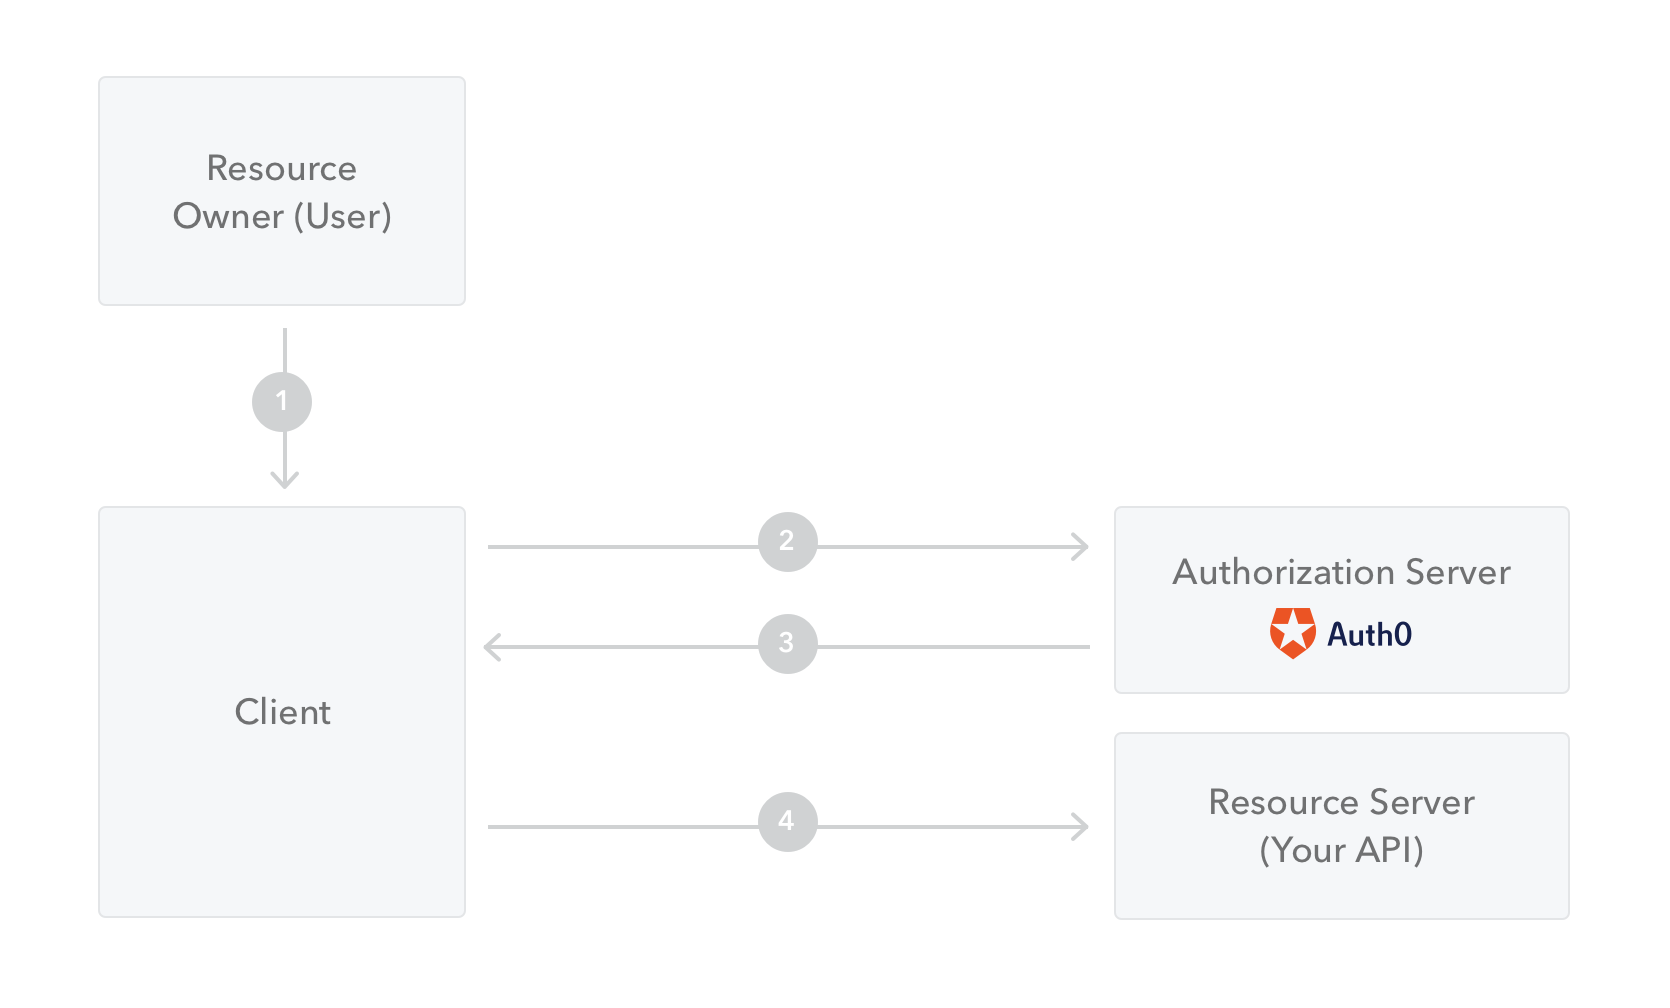
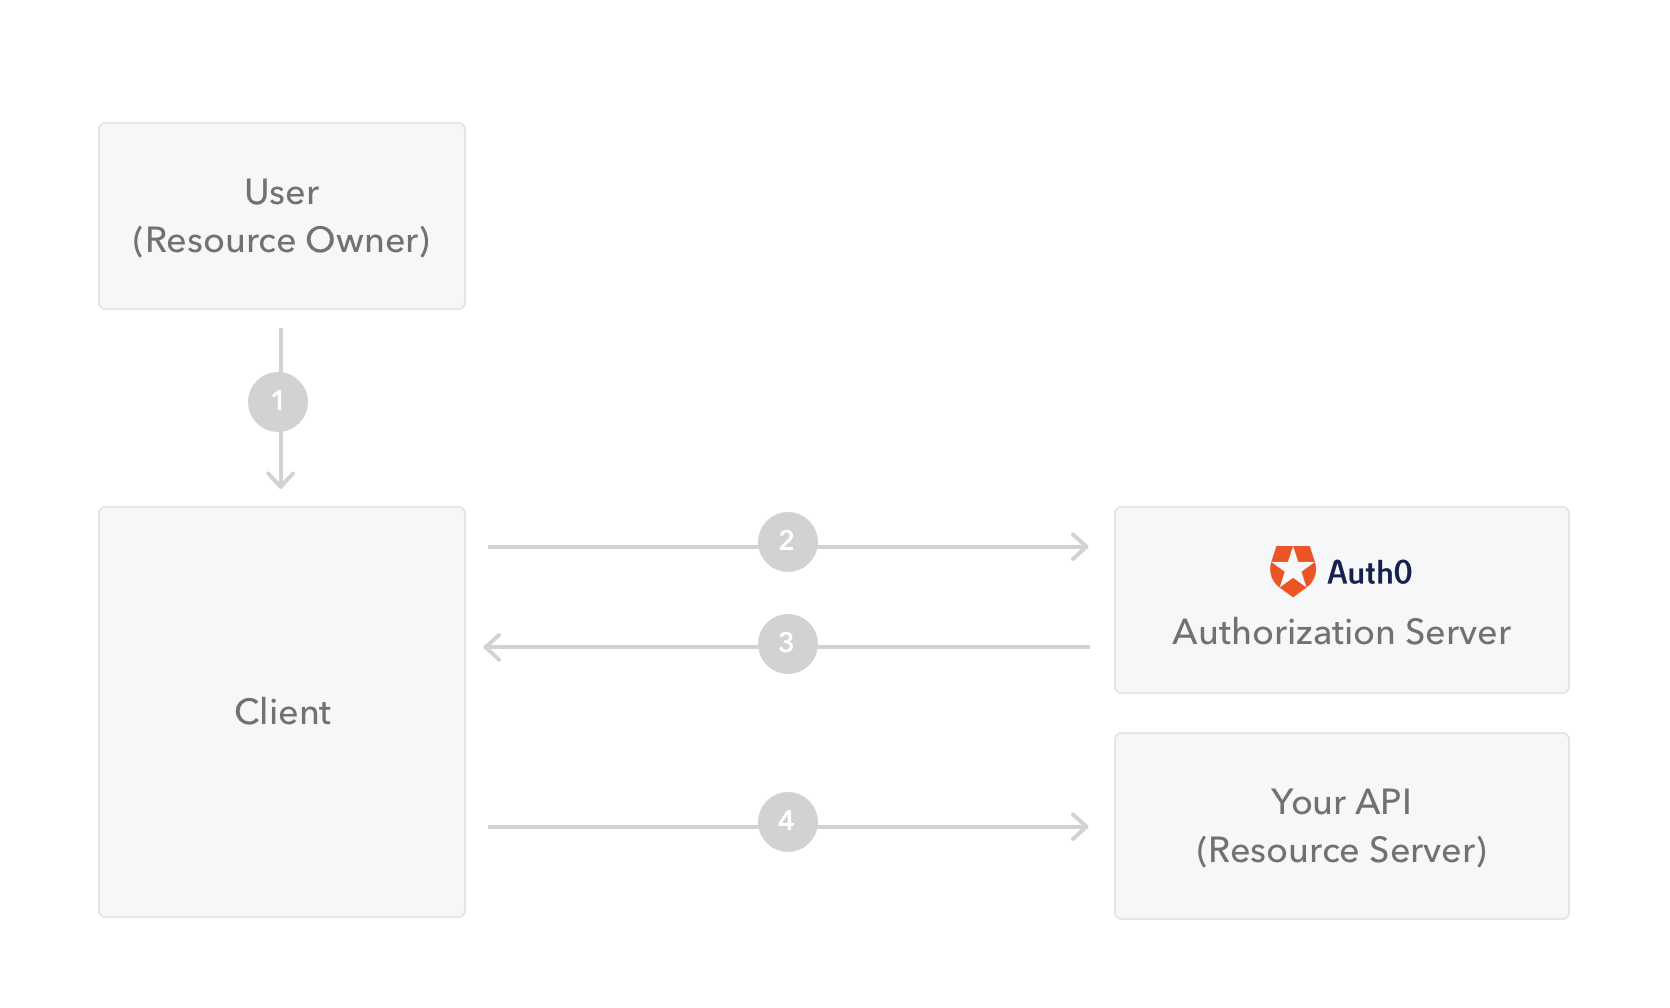
Update password grant doc

diff --git a/articles/api-auth/grant/password.md b/articles/api-auth/grant/password.md
@@ -1,10 +1,17 @@
 ---
+title: Call APIs from Highly Trusted Clients
 description: Describes how to call APIs from highly trusted clients using the Resource Owner Password Grant.
 ---
 
-# Calling APIs from Highly Trusted Clients
+# Call APIs from Highly Trusted Clients
 
-Highly trusted mobile apps and Client-side web apps can use the **Resource Owner Password Grant** to access an API. In this flow the end-user is asked to fill in credentials (username/password) typically using an interactive form. This information is later on sent to the Client and the Authorization Server. It is therefore imperative that the Client is absolutely trusted with this information.
+In order to access an API from a highly trusted [mobile app](/quickstart/native) or [client-side web app](/quickstart/spa), you need to implement the OAuth 2.0 **Resource Owner Password Grant**.
+
+In this flow the end-user is asked to fill in credentials (username/password), typically using an interactive form. This information is later on sent to the client application and Auth0. It is therefore imperative that the client is absolutely trusted with this information.
+
+<div class="alert alert-info">
+  If you need a refresher on the OAuth 2.0 protocol, you can go through our <a href="/protocols/oauth2">OAuth 2.0</a> article.
+</div>
 
 ## Overview
 
@@ -14,16 +21,24 @@ This grant type can eliminate the need for the client to store the user credenti
 
 ![Resource Owner Password Grant](/media/articles/api-auth/password-grant.png)
 
- 1. The Resource Owner enters the credentials into the client application
- 2. The client forwards the Resource Owner's credentials to the Authorization Server
- 3. The Authorization server validates the information and returns an `access_token`, and optionally a `refresh_token`
- 4. The Client can use the `access_token` to call the Resource Server on behalf of the Resource Owner
+ 1. The end user enters the credentials into the client application.
+ 1. The client forwards the credentials to Auth0.
+ 1. Auth0 validates the information and returns an `access_token`, and optionally a `refresh_token`.
+ 1. The client can use the `access_token` to call the API on behalf of the end user.
+
+ <div class="auth0-notification frendly"><i class="notification-icon icon-budicon-266"></i>
+    &nbsp;In OAuth 2.0 terms, the client app is the <em>Client</em>, the end user the <em>Resource Owner</em>, the API the <em>Resource Server</em>, the browser the <em>User Agent</em>, and Auth0 the <em>Authorization Server</em>.
+ </div>
+
+## How to implement the flow
+
+For details on how to implement this using Auth0, refer to [Execute the Resource Owner Password Grant](/api-auth/tutorials/password-grant).
 
 ### Realm Support
 
 A extension grant that offers similar functionality with the **Resource Owner Password Grant**, including the ability to indicate a specific realm, is the `http://auth0.com/oauth/grant-type/password-realm`.
 
-Realms allow you to keep separate user directories and specify which one to use to the token endpoint. For example, you may have an application where both employees and customers can log in but their credentials are kept in separate user directories. You can present a user interface with a dropdown containing "Employees" or "Customers" as realms (which would be connections in [Auth0 dashboard](${manage_url})). The realm value, along with the username and password credentials, will be submitted to the token endpoint. Auth0 will use the realm value to determine which directory (connection) to use when verifying the password.
+Realms allow you to keep separate user directories and specify which one to use to the token endpoint. For example, you may have an application where both employees and customers can log in but their credentials are kept in separate user directories. You can present a user interface with a dropdown containing `Employees` or `Customers` as realms (which would be connections in [Auth0 dashboard](${manage_url})). The realm value, along with the username and password credentials, will be submitted to the token endpoint. Auth0 will use the realm value to determine which directory (connection) to use when verifying the password.
 
 For more information on how to implement this extension grant refer to [Executing a Resource Owner Password Grant > Realm Support](/api-auth/tutorials/password-grant#realm-support).
 
@@ -46,15 +61,9 @@ For details on how to implement this, refer to [Execute the Resource Owner Passw
 
 For details on how to implement multifactor authentication, refer to [Multifactor Αuthentication and Resource Owner Password](/api-auth/tutorials/multifactor-resource-owner-password).
 
+## Keep reading
 
-## Use Case
-
-- Allow the Client to make calls to the Resource Server on behalf of the Resource Owner
-- The Client is a highly trusted application and other authorization flows are not available
-
-## Tutorials
-
-- [How to Execute a Resource Owner Password Grant](/api-auth/tutorials/password-grant)
-- [How to use MFA with Resource Owner Password Grant](/api-auth/tutorials/multifactor-resource-owner-password)
-- [Why you should always use access tokens to secure an API](/api-auth/why-use-access-tokens-to-secure-apis)
-- [How to use Resource Owner Password Grant from the server side together with Anomaly Detection](/api-auth/tutorials/using-resource-owner-password-from-server-side)
+<i class="notification-icon icon-budicon-345"></i>&nbsp;[How to Execute a Resource Owner Password Grant](/api-auth/tutorials/password-grant)<br/>
+<i class="notification-icon icon-budicon-345"></i>&nbsp;[How to use MFA with Resource Owner Password Grant](/api-auth/tutorials/multifactor-resource-owner-password)<br/>
+<i class="notification-icon icon-budicon-345"></i>&nbsp;[Why you should always use access tokens to secure an API](/api-auth/why-use-access-tokens-to-secure-apis)<br/>
+<i class="notification-icon icon-budicon-345"></i>&nbsp;[How to use Resource Owner Password Grant from the server side together with Anomaly Detection](/api-auth/tutorials/using-resource-owner-password-from-server-side)<br/>

diff --git a/articles/api-auth/grant/implicit.md b/articles/api-auth/grant/implicit.md
@@ -1,4 +1,5 @@
 ---
+title: Call APIs from Client-side Web Apps
 description: Learn how to call APIs from client-side web apps using the OAuth 2.0 Implicit Grant.
 ---
 
